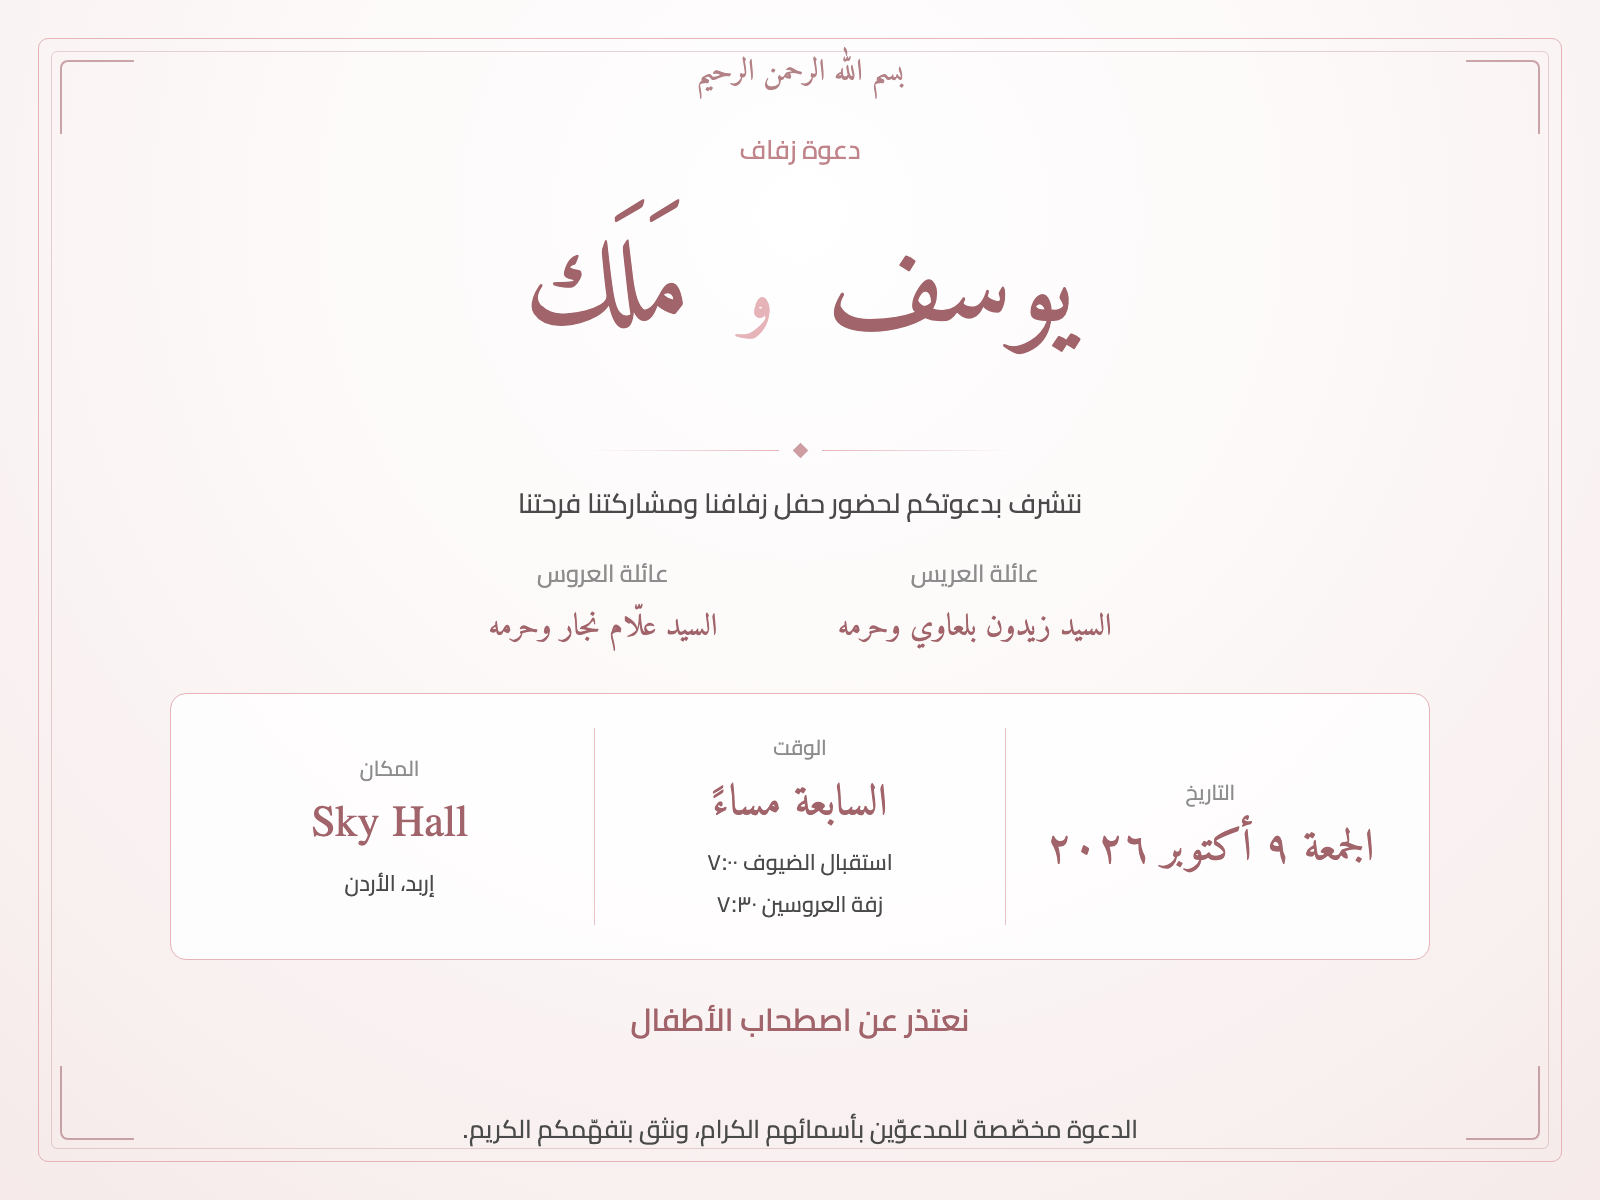
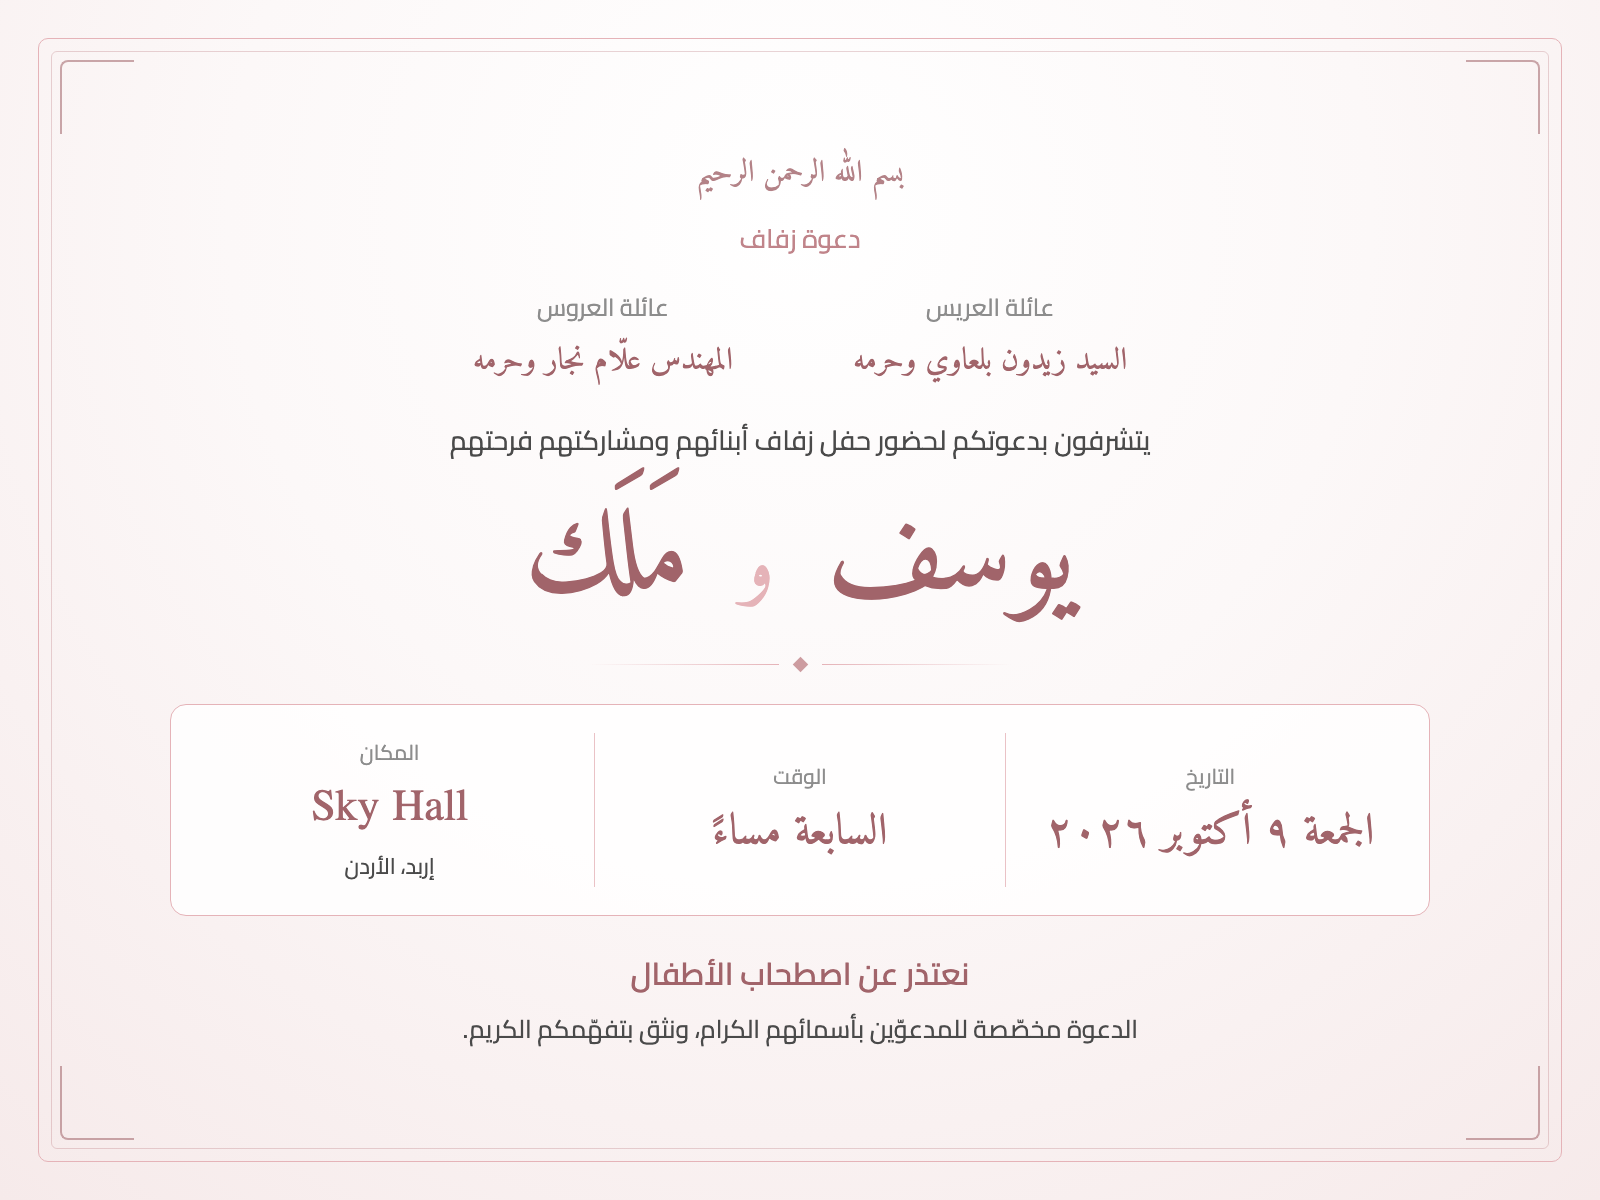
text update

diff --git a/share/card.html b/share/card.html
@@ -30,20 +30,20 @@ body{
 
 .card{width:1260px;text-align:center;position:relative}
 .bism{font-family:Amiri,serif;font-size:30px;color:var(--dark);opacity:.8}
-.kicker{font-family:Cairo,sans-serif;font-size:26px;letter-spacing:0;color:var(--primary);margin-top:26px}
-.names{font-family:Amiri,serif;font-size:118px;line-height:1.7;color:var(--dark);margin-top:4px;padding:14px 30px 26px;overflow:visible}
+.kicker{font-family:Cairo,sans-serif;font-size:26px;letter-spacing:0;color:var(--primary);margin-top:14px}
+.names{font-family:Amiri,serif;font-size:118px;line-height:1.5;color:var(--dark);margin-top:6px;padding:0 30px 10px;overflow:visible}
 .names .amp{font-family:Amiri,serif;font-size:80px;color:var(--light);padding:0 18px}
-.orn{display:flex;align-items:center;justify-content:center;gap:16px;margin:26px 0 22px}
+.orn{display:flex;align-items:center;justify-content:center;gap:16px;margin:0}
 .orn .line{width:190px;height:1px;background:linear-gradient(to left,transparent,var(--light))}
 .orn .line.r{background:linear-gradient(to right,transparent,var(--light))}
 .orn .dia{width:11px;height:11px;background:var(--primary);transform:rotate(45deg);opacity:.8}
-.intro{font-size:27px;color:var(--text);line-height:1.9}
+.intro{font-size:27px;color:var(--text);line-height:1.9;margin-top:26px}
 .fams{display:flex;justify-content:center;gap:120px;margin-top:22px;font-size:24px;color:var(--muted)}
 .fams b{display:block;font-family:Amiri,serif;font-size:31px;color:var(--dark);font-weight:400;margin-top:4px}
 
 .panel{
-  margin-top:38px;background:rgba(255,255,255,.82);border:1px solid var(--light);
-  border-radius:16px;padding:34px 40px;display:flex;justify-content:space-around;align-items:center;
+  margin-top:34px;background:rgba(255,255,255,.82);border:1px solid var(--light);
+  border-radius:16px;padding:28px 40px;display:flex;justify-content:space-around;align-items:center;
 }
 .cell{flex:1}
 .cell .lbl{font-size:21px;color:var(--muted)}
@@ -51,8 +51,8 @@ body{
 .cell .sub{font-size:22px;color:var(--text);margin-top:6px}
 .vsep{width:1px;align-self:stretch;background:var(--light);margin:0 26px;opacity:.8}
 
-.note{margin-top:30px;font-size:25px;color:var(--text);line-height:1.95}
-.note b{display:block;font-size:31px;color:var(--dark);font-weight:600;margin-bottom:6px}
+.note{margin-top:28px;font-size:25px;color:var(--text);line-height:1.95}
+.note b{display:block;font-size:31px;color:var(--dark);font-weight:600;margin-bottom:0}
 </style>
 </head>
 <body>
@@ -63,16 +63,16 @@ body{
   <div class="card">
     <div class="bism">بسم الله الرحمن الرحيم</div>
     <div class="kicker">دعوة زفاف</div>
+    <div class="fams">
+      <div>عائلة العريس<b>السيد زيدون بلعاوي وحرمه</b></div>
+      <div>عائلة العروس<b>المهندس علّام نجار وحرمه</b></div>
+    </div>
+
+    <div class="intro">يتشرفون بدعوتكم لحضور حفل زفاف أبنائهم ومشاركتهم فرحتهم</div>
+
     <div class="names">يوسف <span class="amp">و</span> مَلَك</div>
 
     <div class="orn"><span class="line"></span><span class="dia"></span><span class="line r"></span></div>
-
-    <div class="intro">نتشرف بدعوتكم لحضور حفل زفافنا ومشاركتنا فرحتنا</div>
-
-    <div class="fams">
-      <div>عائلة العريس<b>السيد زيدون بلعاوي وحرمه</b></div>
-      <div>عائلة العروس<b>السيد علّام نجار وحرمه</b></div>
-    </div>
 
     <div class="panel">
       <div class="cell">
@@ -83,7 +83,6 @@ body{
       <div class="cell">
         <div class="lbl">الوقت</div>
         <div class="val">السابعة مساءً</div>
-        <div class="sub">استقبال الضيوف ٧:٠٠<br>زفة العروسين ٧:٣٠</div>
       </div>
       <div class="vsep"></div>
       <div class="cell">
@@ -94,7 +93,7 @@ body{
     </div>
 
     <div class="note">
-      <b>نعتذر عن اصطحاب الأطفال</b><br>
+      <b>نعتذر عن اصطحاب الأطفال</b>
       الدعوة مخصّصة للمدعوّين بأسمائهم الكرام، ونثق بتفهّمكم الكريم.
     </div>
   </div>

diff --git a/src/i18n.tsx b/src/i18n.tsx
@@ -12,6 +12,9 @@ export interface Strings {
   sealRight: string;
 
   bismillah: string;
+  fathersLine: string;
+  groomFather: string;
+  brideFather: string;
   groomFirst: string;
   brideFirst: string;
   heroIntro: string;
@@ -35,9 +38,6 @@ export interface Strings {
   hours: string;
   minutes: string;
   seconds: string;
-
-  scheduleTitle: string;
-  events: { time: string; title: string }[];
 
   locationTitle: string;
   dateLine: string;
@@ -73,9 +73,12 @@ const ar: Strings = {
   sealRight: 'ي',
 
   bismillah: 'بسم الله الرحمن الرحيم',
+  fathersLine: 'السيد زيدون بلعاوي & المهندس علّام نجار',
+  groomFather: 'السيد زيدون بلعاوي',
+  brideFather: 'المهندس علّام نجار',
   groomFirst: 'يوسف',
   brideFirst: 'مَلَك',
-  heroIntro: 'نتشرف بدعوتكم لحضور حفل زفافنا ومشاركتنا فرحتنا',
+  heroIntro: 'يتشرفون بدعوتكم لحضور حفل زفاف أبنائهم ومشاركتهم فرحتهم',
   scrollCue: 'مرّر للأسفل',
 
   verse:
@@ -87,7 +90,7 @@ const ar: Strings = {
   blessingLine2: 'عائلتا العروسين تتشرفان بدعوتكم لحضور حفل زفاف أبنائهما',
   brideFamilyLabel: 'عائلة العروس',
   groomFamilyLabel: 'عائلة العريس',
-  brideFamilyLine1: 'السيد علّام نجار',
+  brideFamilyLine1: 'المهندس علّام نجار',
   brideFamilyLine2: 'وحرمه',
   groomFamilyLine1: 'السيد زيدون بلعاوي',
   groomFamilyLine2: 'وحرمه',
@@ -98,16 +101,9 @@ const ar: Strings = {
   minutes: 'دقائق',
   seconds: 'ثواني',
 
-  scheduleTitle: 'برنامج الحفل',
-  events: [
-    { time: '7:00 م', title: 'استقبال الضيوف' },
-    { time: '7:30 م', title: 'زفة العروسين' },
-    { time: '8:00 م', title: 'الاحتفال' },
-  ],
-
   locationTitle: 'الموقع والزمان',
   dateLine: 'الجمعة، 9 أكتوبر 2026',
-  timeLine: 'السابعة مساءً',
+  timeLine: 'الساعة 7:00 مساءً',
   venue: 'Sky Hall',
   city: 'إربد، الأردن',
   mapButton: 'عرض على خرائط جوجل',
@@ -139,9 +135,12 @@ const en: Strings = {
   sealRight: 'M',
 
   bismillah: 'In the name of God, the Most Gracious, the Most Merciful',
+  fathersLine: 'Mr. Zaidoun Balawi & Eng. Allam Najjar',
+  groomFather: 'Mr. Zaidoun Balawi',
+  brideFather: 'Eng. Allam Najjar',
   groomFirst: 'Yousef',
   brideFirst: 'Malak',
-  heroIntro: 'We would be honoured by your presence as we celebrate our wedding day',
+  heroIntro: 'request the honour of your presence at the wedding of their children',
   scrollCue: 'Scroll down',
 
   verse:
@@ -153,7 +152,7 @@ const en: Strings = {
   blessingLine2: 'the families of the bride and groom request the honour of your presence at the wedding of their children',
   brideFamilyLabel: "Bride's Family",
   groomFamilyLabel: "Groom's Family",
-  brideFamilyLine1: 'Mr. & Mrs.',
+  brideFamilyLine1: 'Eng. & Mrs.',
   brideFamilyLine2: 'Allam Najjar',
   groomFamilyLine1: 'Mr. & Mrs.',
   groomFamilyLine2: 'Zaidoun Balawi',
@@ -164,16 +163,9 @@ const en: Strings = {
   minutes: 'Minutes',
   seconds: 'Seconds',
 
-  scheduleTitle: 'Order of the Evening',
-  events: [
-    { time: '7:00 PM', title: 'Guest Reception' },
-    { time: '7:30 PM', title: 'Bridal Procession' },
-    { time: '8:00 PM', title: 'The Celebration' },
-  ],
-
   locationTitle: 'Time & Place',
   dateLine: 'Friday, 9 October 2026',
-  timeLine: 'Seven in the evening',
+  timeLine: '7:00 PM',
   venue: 'Sky Hall',
   city: 'Irbid, Jordan',
   mapButton: 'View on Google Maps',

diff --git a/src/index.css b/src/index.css
@@ -223,41 +223,74 @@ a {
 /* The card tucked inside, revealed on open */
 .env-card {
   position: absolute;
-  left: 6%;
-  right: 6%;
+  left: 5%;
+  right: 5%;
   bottom: 5%;
   height: 90%;
   z-index: 2;
-  border-radius: 5px;
+  border-radius: 6px;
   background: linear-gradient(170deg, #ffffff, #fdf7f7);
   border: 1px solid #f0dcde;
   box-shadow: 0 6px 18px rgba(120, 70, 76, 0.14);
   display: flex;
   flex-direction: column;
   align-items: center;
-  padding-top: 16px;
-  gap: 4px;
+  justify-content: center;
+  padding: 14px 10px;
+  box-sizing: border-box;
+}
+
+.env-card-fathers {
+  font-family: var(--font-heading);
+  font-size: 0.8rem;
+  color: var(--primary);
+  line-height: 1.3;
+  margin-bottom: 6px;
+  text-align: center;
+  letter-spacing: 0.02em;
+  opacity: 0.95;
+  white-space: nowrap;
+}
+
+[dir="ltr"] .env-card-fathers {
+  font-size: 0.7rem;
+  letter-spacing: 0;
 }
 
 .env-card-names {
   font-family: var(--font-heading);
-  font-size: 1.45rem;
+  font-size: 1.36rem;
   color: var(--primary-dark);
-  line-height: 1.2;
+  line-height: 1.25;
+  margin-bottom: 0;
+  text-align: center;
 }
 
 .env-card-rule {
-  width: 46px;
+  width: 48px;
   height: 1px;
-  background: var(--primary-light);
-  margin: 6px 0;
+  background: rgba(192, 132, 138, 0.45);
+  margin: 15px 0 13px 0;
+  flex-shrink: 0;
 }
 
 .env-card-date {
-  font-size: 0.78rem;
-  letter-spacing: 0.14em;
+  font-size: 0.74rem;
+  letter-spacing: 0.07em;
   color: var(--text-light);
   text-transform: uppercase;
+  line-height: 1.4;
+  text-align: center;
+}
+
+.env-card-time {
+  font-size: 0.72rem;
+  letter-spacing: 0.05em;
+  color: var(--primary-dark);
+  line-height: 1.3;
+  text-align: center;
+  margin-top: 2px;
+  font-weight: 500;
 }
 
 /* Front pocket */

diff --git a/src/components/HeroSection.tsx b/src/components/HeroSection.tsx
@@ -35,11 +35,42 @@ const HeroSection: React.FC = () => {
             fontFamily: 'var(--font-heading)',
             fontSize: lang === 'ar' ? '1.2rem' : '0.95rem',
             color: 'var(--primary)',
-            marginBottom: '2.25rem',
+            marginBottom: '1.25rem',
             letterSpacing: lang === 'ar' ? 'normal' : '0.04em',
           }}
         >
           {t.bismillah}
+        </p>
+
+        <div
+          className="hero-fathers"
+          style={{
+            display: 'flex',
+            justifyContent: 'center',
+            gap: '2rem',
+            marginBottom: '1.5rem',
+            fontFamily: 'var(--font-heading)',
+            letterSpacing: lang === 'ar' ? 'normal' : '0.03em',
+            lineHeight: 1.6,
+          }}
+        >
+          {[t.groomFather, t.brideFather].map((father) => (
+            <p key={father} style={{ fontSize: lang === 'ar' ? '1.1rem' : '0.9rem', color: 'var(--primary)' }}>
+              {father}
+            </p>
+          ))}
+        </div>
+
+        <p
+          style={{
+            fontSize: '1.05rem',
+            color: 'var(--text-dark)',
+            maxWidth: '300px',
+            margin: '0 auto 1.75rem',
+            lineHeight: 1.9,
+          }}
+        >
+          {t.heroIntro}
         </p>
 
         <h1
@@ -56,18 +87,6 @@ const HeroSection: React.FC = () => {
           <br />
           {t.brideFirst}
         </h1>
-
-        <p
-          style={{
-            fontSize: '1.05rem',
-            color: 'var(--text-dark)',
-            maxWidth: '300px',
-            margin: '2rem auto 0',
-            lineHeight: 1.9,
-          }}
-        >
-          {t.heroIntro}
-        </p>
       </div>
 
       <div

diff --git a/src/App.tsx b/src/App.tsx
@@ -4,7 +4,6 @@ import HeroSection from './components/HeroSection';
 import QuranVerse from './components/QuranVerse';
 import InvitationDetails from './components/InvitationDetails';
 import CountdownTimer from './components/CountdownTimer';
-import Schedule from './components/Schedule';
 import Location from './components/Location';
 import NotesAndContact from './components/NotesAndContact';
 import SaveTheDate from './components/SaveTheDate';
@@ -40,7 +39,6 @@ function App() {
         <QuranVerse />
         <InvitationDetails />
         <CountdownTimer />
-        <Schedule />
         <Location />
         <NotesAndContact />
         <SaveTheDate />

diff --git a/src/components/Envelope.tsx b/src/components/Envelope.tsx
@@ -56,11 +56,13 @@ const Envelope: React.FC<EnvelopeProps> = ({ isOpen, onOpen }) => {
             <div className="env-back" />
 
             <div className="env-card">
+              <span className="env-card-fathers">{t.fathersLine}</span>
               <span className="env-card-names">
                 {t.groomFirst} &amp; {t.brideFirst}
               </span>
               <span className="env-card-rule" />
               <span className="env-card-date">{t.dateLine}</span>
+              <span className="env-card-time">{t.timeLine}</span>
             </div>
 
             <div className="env-body" />
